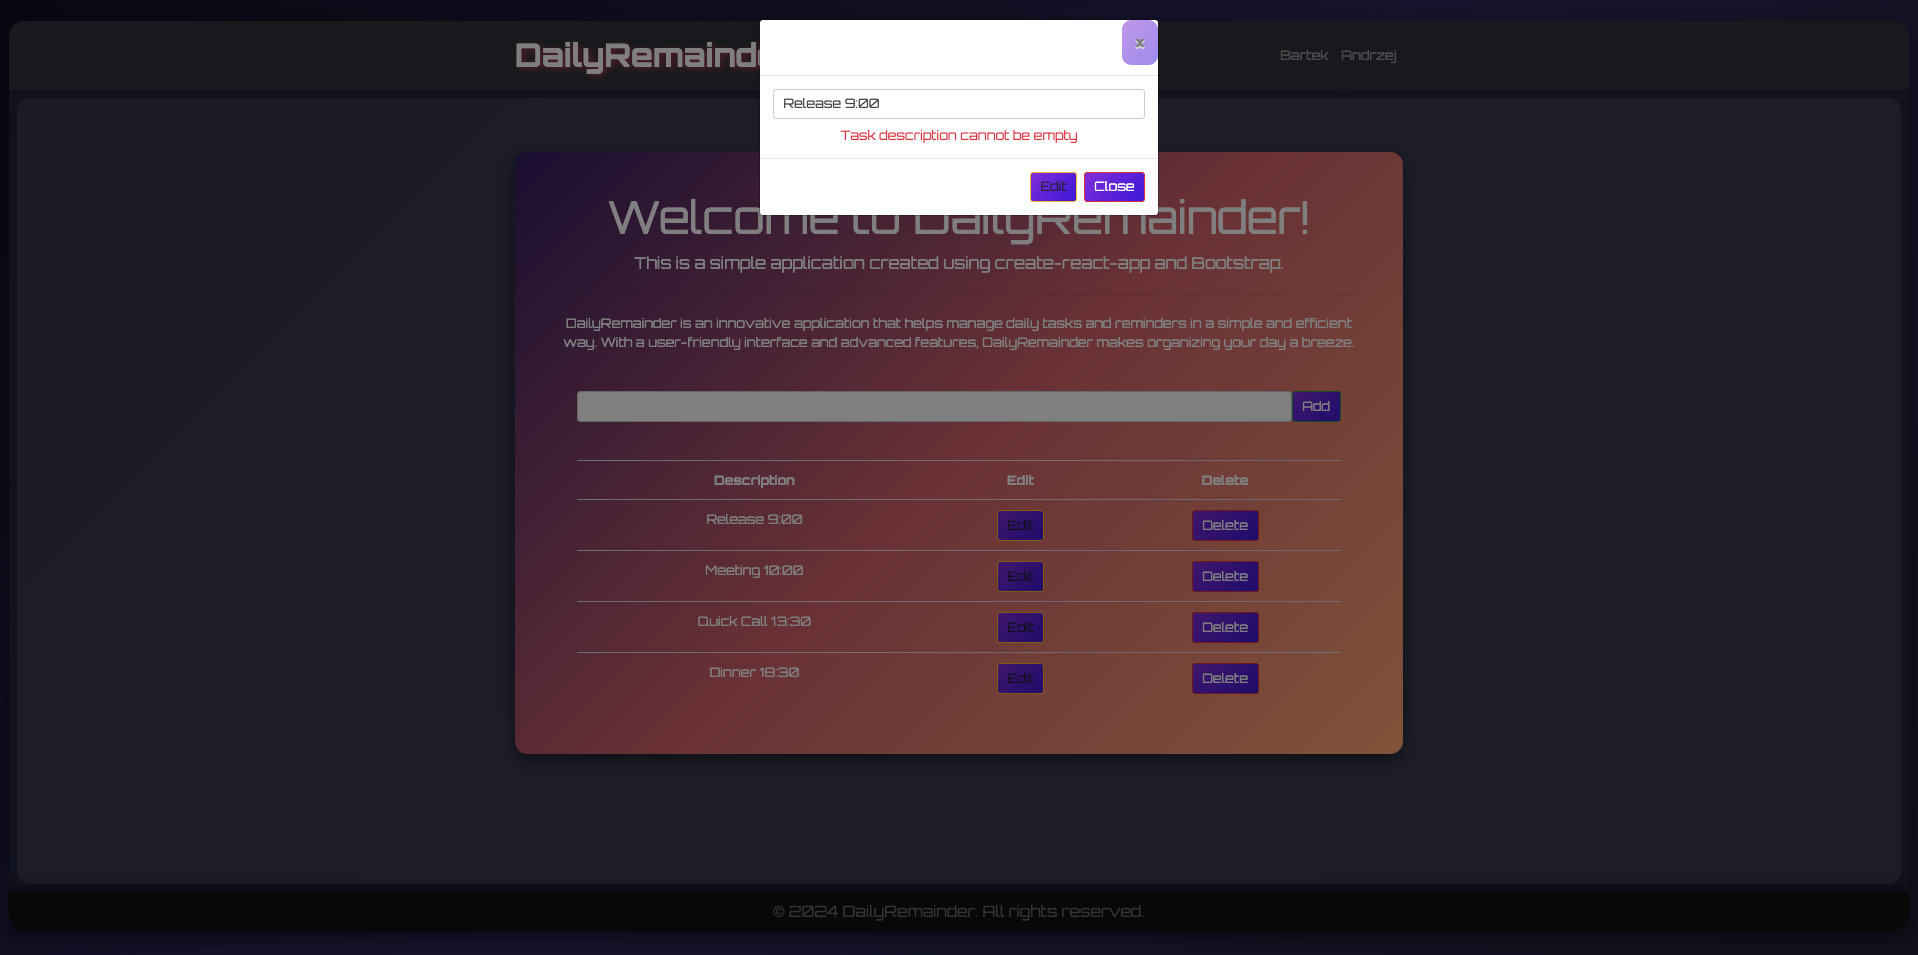
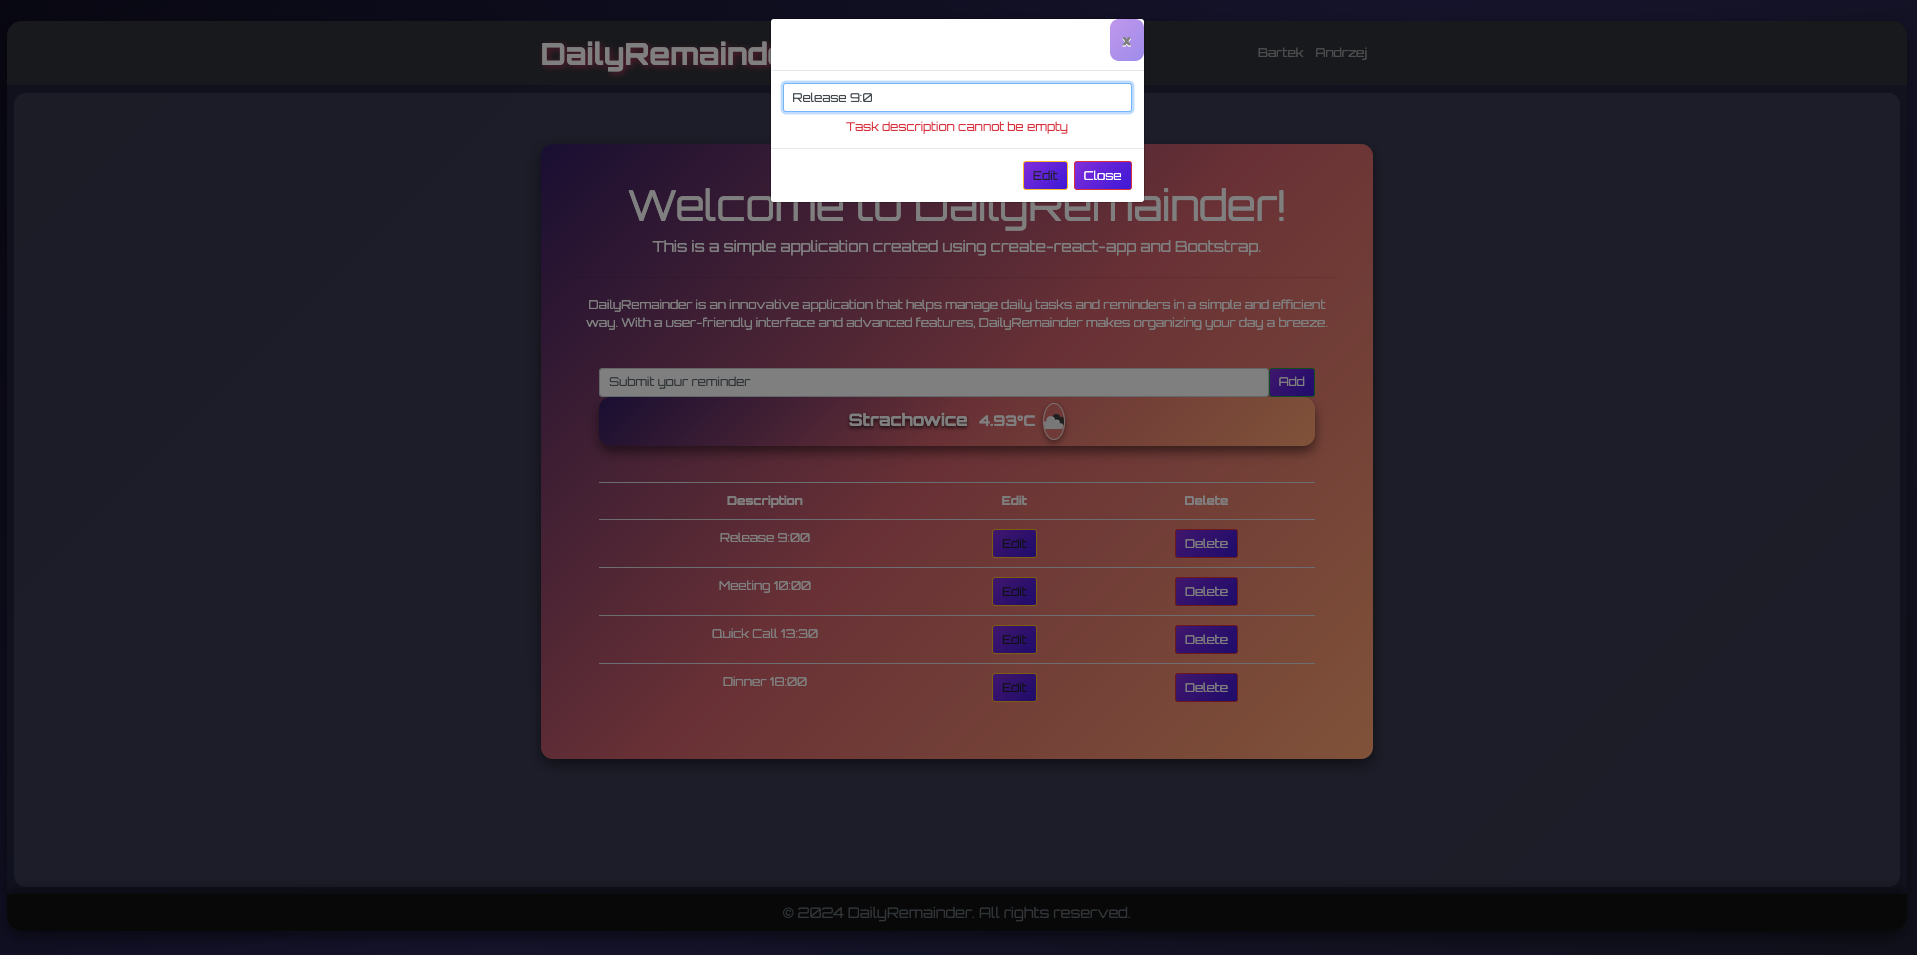
fixes

diff --git a/client/src/components/ListTodos.js b/client/src/components/ListTodos.js
@@ -3,38 +3,172 @@ import EditTodo from "./EditTodo";
 
 const ListTodos = () => {
   const [todos, setTodos] = useState([]);
+  const [error, setError] = useState("");
+  const [weather, setWeather] = useState(null); // Stan dla danych o pogodzie
+  const [weatherError, setWeatherError] = useState(""); // Błędy związane z pogodą
 
-  // Fetch todos from the API
-  const getTodos = async () => {
-    try {
-      const response = await fetch("http://localhost:5001/todos");
-      const jsonData = await response.json();
-      setTodos(jsonData);
-    } catch (err) {
-      console.error(err.message);
-    }
-  };
+  const WEATHER_API_KEY = "7eb19459aa84d3ce787d7a4ee0386cf6"; // Zamień na klucz API OpenWeatherMap
 
-  // Delete a todo
+  // Delete todo function
   const deleteTodo = async (id) => {
     try {
-      await fetch(`http://localhost:5001/todos/${id}`, {
+      const response = await fetch(`http://localhost:5001/todos/${id}`, {
         method: "DELETE",
       });
 
-      // Filter out the deleted todo from the state
-      setTodos(todos.filter(todo => todo.todo_id !== id));
+      if (!response.ok) {
+        throw new Error("Failed to delete todo");
+      }
+
+      // Update state without refreshing the page
+      setTodos(todos.filter((todo) => todo.todo_id !== id));
     } catch (err) {
-      console.error(err.message);
+      console.error("Error deleting todo:", err.message);
+      setError("Failed to delete todo. Please try again.");
     }
   };
 
+  // Fetch todos from the server
+  const getTodos = async () => {
+    try {
+      const response = await fetch("http://localhost:5001/todos");
+
+      if (!response.ok) {
+        throw new Error("Failed to fetch todos");
+      }
+
+      const jsonData = await response.json();
+      setTodos(jsonData);
+      setError(""); // Clear any existing error
+    } catch (err) {
+      console.error("Error fetching todos:", err.message);
+      setError("Failed to load todos. Please try again later.");
+    }
+  };
+
+  // Fetch weather data
+  const fetchWeather = async (lat, lon) => {
+    try {
+      const response = await fetch(
+        `https://api.openweathermap.org/data/2.5/weather?lat=${lat}&lon=${lon}&units=metric&appid=${WEATHER_API_KEY}`
+      );
+
+      if (!response.ok) {
+        throw new Error("Failed to fetch weather data");
+      }
+
+      const weatherData = await response.json();
+      setWeather({
+        city: weatherData.name,
+        cityId: weatherData.id, // Pobierz ID miasta
+        temperature: weatherData.main.temp,
+        icon: `https://openweathermap.org/img/wn/${weatherData.weather[0].icon}.png`,
+        description: weatherData.weather[0].description,
+      });
+      setWeatherError("");
+    } catch (err) {
+      console.error("Error fetching weather:", err.message);
+      setWeatherError("Unable to fetch weather data.");
+    }
+  };
+
+  // Get user's location
+  const getLocationAndFetchWeather = () => {
+    if (navigator.geolocation) {
+      navigator.geolocation.getCurrentPosition(
+        (position) => {
+          const { latitude, longitude } = position.coords;
+          fetchWeather(latitude, longitude);
+        },
+        (error) => {
+          console.error("Error getting location:", error.message);
+          setWeatherError("Unable to retrieve location.");
+        }
+      );
+    } else {
+      setWeatherError("Geolocation is not supported by this browser.");
+    }
+  };
+
+  // Function to open detailed weather forecast
+  const openWeatherDetails = () => {
+    if (weather && weather.cityId) {
+      const weatherUrl = `https://openweathermap.org/city/${weather.cityId}`;
+      window.open(weatherUrl, "_blank");
+    }
+  };
+
+  // Fetch todos and weather on component mount
   useEffect(() => {
     getTodos();
+    getLocationAndFetchWeather();
   }, []);
+
+  // Render the table rows
+  const renderTodoRows = () => {
+    if (todos.length === 0 && !error) {
+      return (
+        <tr>
+          <td colSpan="3">No todos found. Add one!</td>
+        </tr>
+      );
+    }
+
+    return todos.map((todo) => (
+      <tr key={todo.todo_id}>
+        <td>{todo.description}</td>
+        <td>
+          <EditTodo
+            todo={todo}
+            onEdit={(id, newDescription) => {
+              setTodos(
+                todos.map((t) =>
+                  t.todo_id === id ? { ...t, description: newDescription } : t
+                )
+              );
+            }}
+          />
+        </td>
+        <td>
+          <button
+            className="btn btn-danger"
+            onClick={() => deleteTodo(todo.todo_id)}
+          >
+            Delete
+          </button>
+        </td>
+      </tr>
+    ));
+  };
 
   return (
     <Fragment>
+      {/* Weather Bar */}
+      <div
+        className="weather-bar text-center bg-light py-2 mb-3"
+        style={{ cursor: "pointer" }}
+        onClick={openWeatherDetails}
+        title="Click for detailed weather forecast"
+      >
+        {weather ? (
+          <div>
+            <strong>{weather.city}</strong> {weather.temperature}°C
+            <img
+              src={weather.icon}
+              alt={weather.description}
+              title={weather.description}
+              style={{ width: "30px", marginLeft: "10px" }}
+            />
+          </div>
+        ) : (
+          <p className="text-muted">
+            {weatherError || "Loading weather data..."}
+          </p>
+        )}
+      </div>
+
+      {/* Todos Table */}
+      {error && <p className="text-danger">{error}</p>}
       <table className="table mt-5 text-center">
         <thead>
           <tr>
@@ -43,24 +177,7 @@ const ListTodos = () => {
             <th>Delete</th>
           </tr>
         </thead>
-        <tbody>
-          {todos.map(todo => (
-            <tr key={todo.todo_id}>
-              <td>{todo.description}</td>
-              <td>
-                <EditTodo todo={todo} />
-              </td>
-              <td>
-                <button
-                  className="btn btn-danger"
-                  onClick={() => deleteTodo(todo.todo_id)}
-                >
-                  Delete
-                </button>
-              </td>
-            </tr>
-          ))}
-        </tbody>
+        <tbody>{renderTodoRows()}</tbody>
       </table>
     </Fragment>
   );

diff --git a/client/src/index.css b/client/src/index.css
@@ -120,3 +120,43 @@ a.edit:hover {
   color: rgba(255, 255, 255, 1); /* Jasny kolor przy najechaniu */
   text-shadow: 0 0 5px rgba(255, 255, 255, 0.8); /* Subtelny neon */
 }
+.weather-bar {
+  font-size: 1.2rem;
+  font-weight: bold;
+  display: flex;
+  justify-content: center;
+  align-items: center;
+  background: linear-gradient(135deg, #3a1c71, #d76d77, #ffaf7b); /* Gradient pasujący do jumbotronu */
+  color: #ffffff; /* Jasny kolor tekstu */
+  padding: 15px 20px;
+  border-radius: 16px;
+  box-shadow: 0 8px 15px rgba(0, 0, 0, 0.5); /* Subtelny cień */
+  margin-bottom: 20px;
+}
+
+.weather-bar img {
+  width: 50px; /* Ustalona szerokość */
+  height: 50px; /* Ustalona wysokość */
+  border-radius: 50%; /* Idealne zaokrąglenie */
+  border: 2px solid rgba(255, 255, 255, 0.8); /* Jasna ramka */
+  object-fit: cover; /* Dopasowanie obrazu do okrągłego kształtu */
+  box-shadow: 0 4px 8px rgba(0, 0, 0, 0.4); /* Cień dla lepszego efektu wizualnego */
+}
+
+.weather-bar strong {
+  font-size: 1.4rem;
+  margin-right: 10px;
+  text-shadow: 0 2px 5px rgba(0, 0, 0, 0.7); /* Subtelny cień tekstu */
+}
+
+.weather-bar p {
+  margin: 0;
+  font-size: 1rem;
+  color: rgba(255, 255, 255, 0.8); /* Delikatny kontrast */
+}
+
+.weather-bar:hover {
+  background: linear-gradient(135deg, #d76d77, #ffaf7b, #3a1c71); /* Zmiana gradientu na hover */
+  transform: scale(1.02); /* Subtelne powiększenie */
+  box-shadow: 0 10px 20px rgba(0, 0, 0, 0.6); /* Głębszy cień na hover */
+}

diff --git a/client/src/components/InputTodo.js b/client/src/components/InputTodo.js
@@ -30,6 +30,7 @@ const InputTodo = () => {
         <input
           type="text"
           className="form-control"
+          placeholder="Submit your reminder"
           value={description}
           onChange={e => {
             setDescription(e.target.value);

diff --git a/README.md b/README.md
@@ -74,7 +74,6 @@ npm install
 3.Install dependencies for frontend:
 
   ```bash
-Skopiuj kod
 cd client
 npm install
   ```
